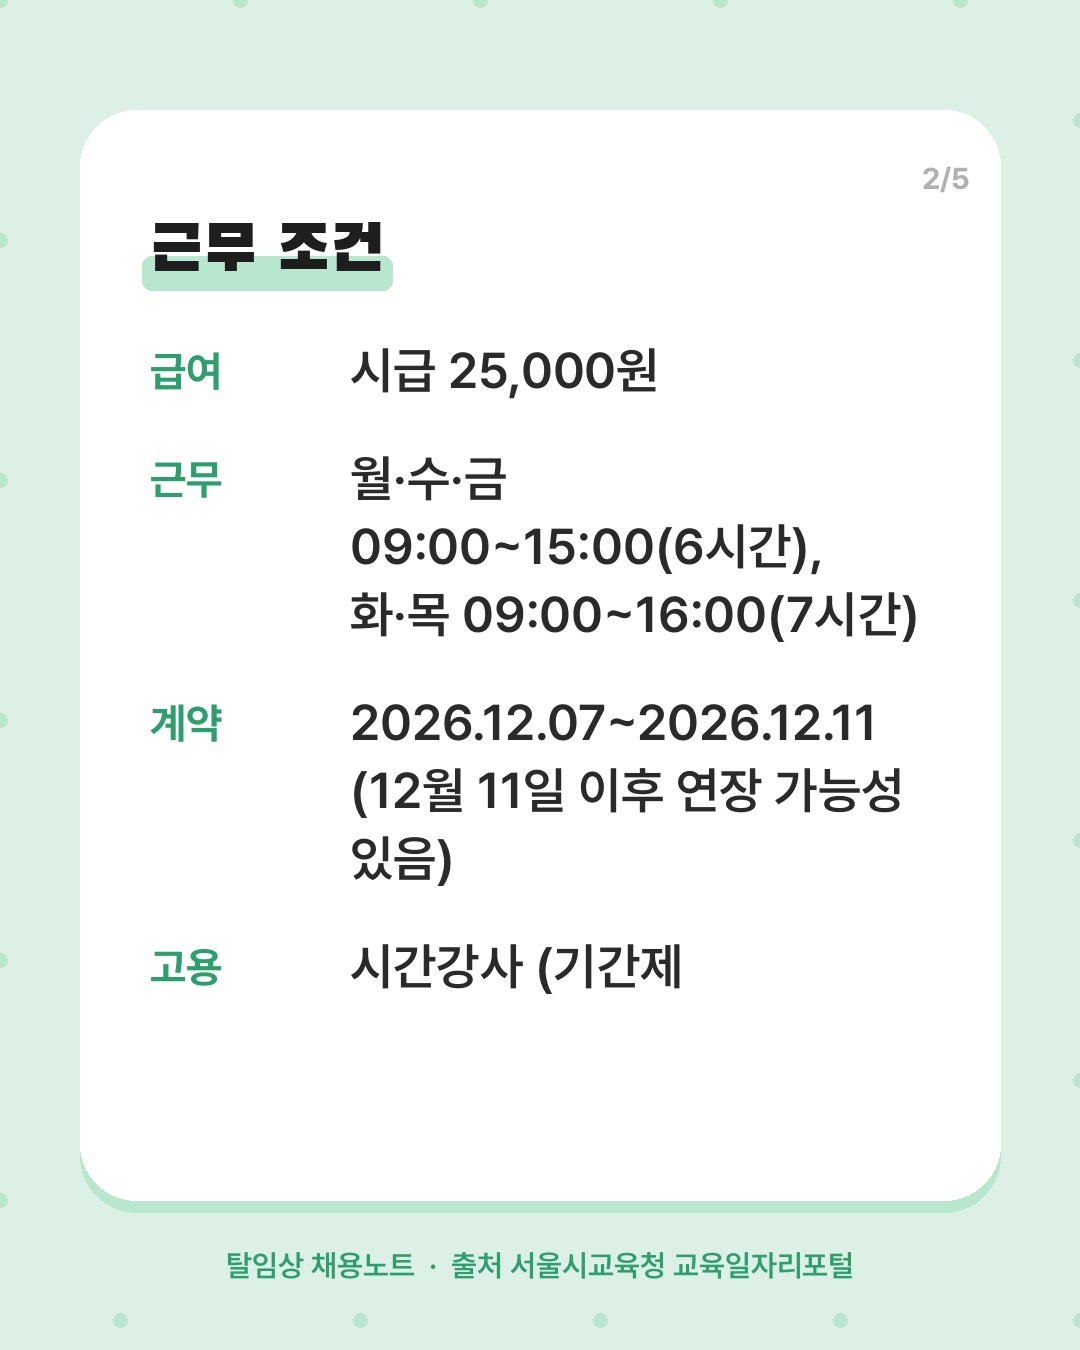
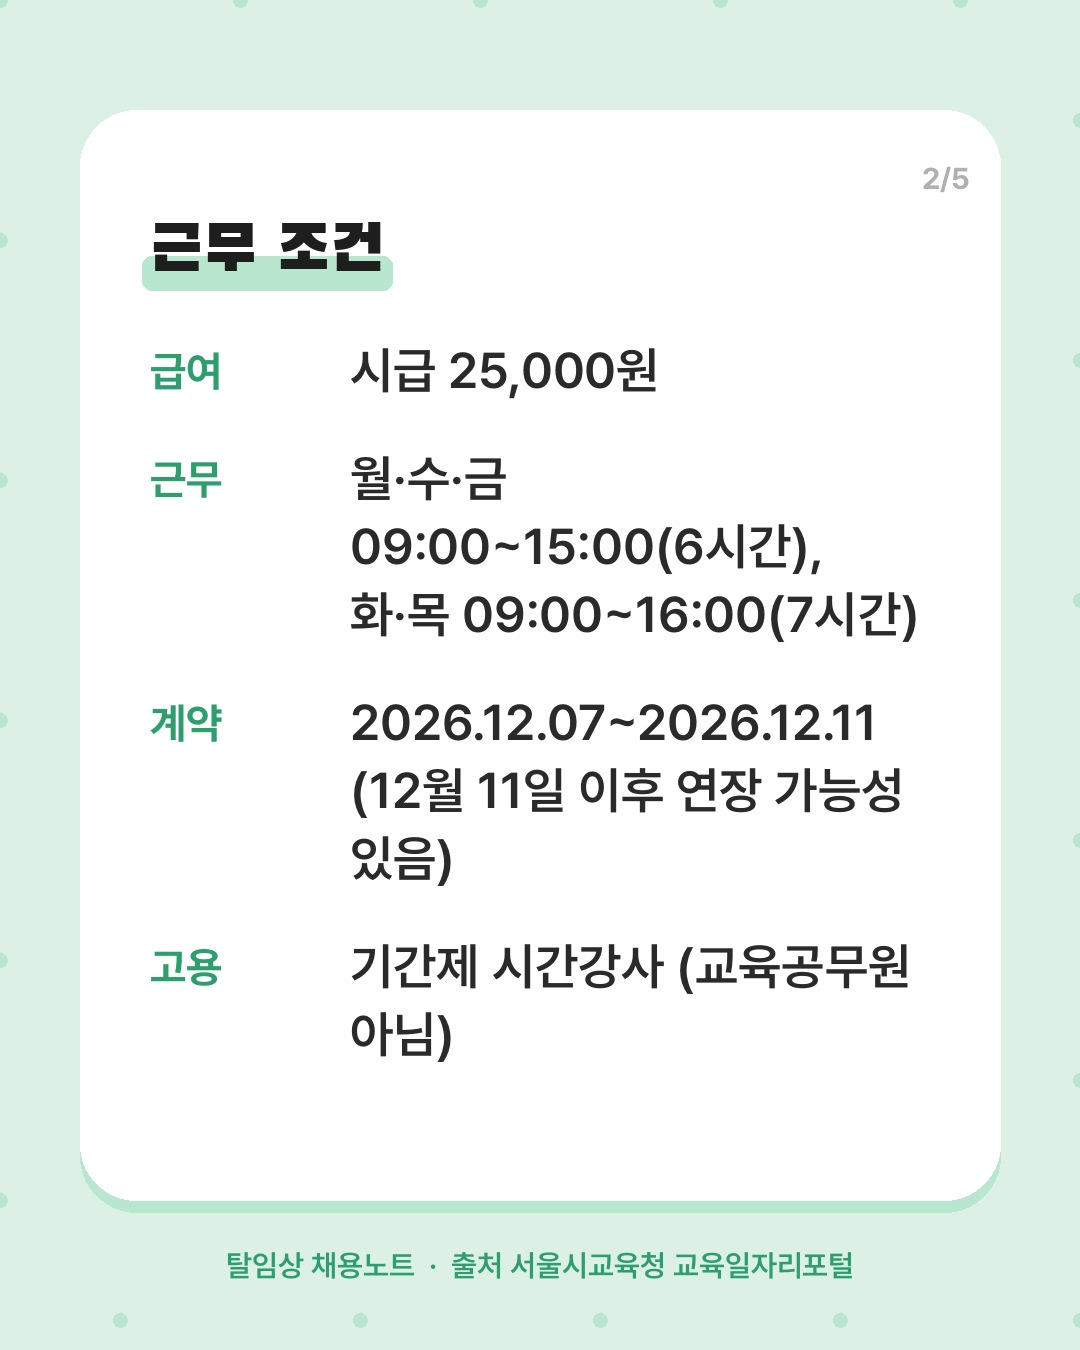
분류·콘텐츠 생성·검토 2026-11-28
Claude-Session: https://claude.ai/code/session_015ozFBxLbVMSuceEiQ992Vw

Changed region(s): [[0.3056, 0.6844, 0.8556, 0.8089]]

diff --git a/docs/2026-11-28/index.html b/docs/2026-11-28/index.html
@@ -31,7 +31,7 @@ a{color:var(--accent)}ul.days{padding-left:1.2em}
 <tr><td style="width:30%;background:#f5f5f5"><b>기관</b></td><td>석촌중학교</td></tr>
 <tr><td style="width:30%;background:#f5f5f5"><b>부서 · 직무</b></td><td>보건 시간강사</td></tr>
 <tr><td style="width:30%;background:#f5f5f5"><b>채용 인원</b></td><td>1명</td></tr>
-<tr><td style="width:30%;background:#f5f5f5"><b>고용 형태</b></td><td>시간강사 (기간제, 교육공무원 아님)</td></tr>
+<tr><td style="width:30%;background:#f5f5f5"><b>고용 형태</b></td><td>기간제 시간강사 (교육공무원 아님)</td></tr>
 <tr><td style="width:30%;background:#f5f5f5"><b>계약 기간</b></td><td>2026.12.07~2026.12.11 (12월 11일 이후 연장 가능성 있음)</td></tr>
 <tr><td style="width:30%;background:#f5f5f5"><b>근무지</b></td><td>서울특별시 송파구 송이로15길 13 (가락동)</td></tr>
 <tr><td style="width:30%;background:#f5f5f5"><b>급여</b></td><td>시급 25,000원</td></tr>
@@ -54,16 +54,16 @@ a{color:var(--accent)}ul.days{padding-left:1.2em}
 <div class="row" style="margin-top:10px"><pre id="tg1" style="flex:1;margin:0">#석촌중학교채용 #간호사채용 #탈임상 #탈임상간호사 #석촌중학교 #보건교사 #보건시간강사 #서울보건교사 #송파구 #간호사이직</pre>
 <button onclick="copyText('tg1',this)">태그 복사</button></div>
 <div class="row" style="margin-top:10px;align-items:flex-start"><a href="thumb-01.png" download><img src="thumb-01.png" alt="썸네일 1" style="width:160px;border-radius:8px;border:1px solid var(--line)"></a>
-<span class="muted">썸네일: 이미지를 눌러 저장 후 글 맨 위에 넣으세요</span></div></div><div class="box"><div class="row"><b>글 2. 서울특별시금천구보건소 · 간호사</b>
+<span class="muted">썸네일: 이미지를 눌러 저장 후 글 맨 위에 넣으세요</span></div></div><div class="box"><div class="row"><b>글 2. 금천구보건소 · 간호사</b>
 <span class="muted">카테고리: <span id="ct2">탈임상 채용공고 &gt; 공공기관·공무원</span></span></div>
-<pre id="pl2" style="display:none">서울특별시금천구보건소 | 방문간호사: 가산동·시흥5동 주민센터 예정 / AI간호사: 금천구보건소 5층 건강증진과</pre>
-<div class="row" style="margin-top:8px"><pre id="pt2" style="flex:1;margin:0">[서울] 서울특별시금천구보건소 간호사 기간제 채용 (~12/2)</pre>
+<pre id="pl2" style="display:none">금천구보건소 | 방문간호사: 가산동·시흥5동 주민센터 예정 / AI간호사: 금천구보건소 5층 건강증진과</pre>
+<div class="row" style="margin-top:8px"><pre id="pt2" style="flex:1;margin:0">[서울] 금천구보건소 간호사 기간제 채용 (~12/2)</pre>
 <button onclick="copyText('pt2',this)">제목 복사</button></div>
 <details open><summary class="muted" style="margin:10px 0;cursor:pointer">본문 미리보기 (접기)</summary>
 <div id="pb2" class="post"><p>서울 보건소에서 1년 동안 평일 낮에만 일할 수 있는 기간제 간호사 자리입니다. 방문간호사 2명과 AI전담간호사 1명을 뽑고 월 279만 원이 공개돼 있습니다. 마감이 12월 2일로 가깝습니다.</p><p>&nbsp;</p>
 <h2>📌 채용 개요</h2>
 <table border="1" cellpadding="8" style="border-collapse:collapse;width:100%">
-<tr><td style="width:30%;background:#f5f5f5"><b>기관</b></td><td>서울특별시금천구보건소</td></tr>
+<tr><td style="width:30%;background:#f5f5f5"><b>기관</b></td><td>금천구보건소</td></tr>
 <tr><td style="width:30%;background:#f5f5f5"><b>부서 · 직무</b></td><td>간호사</td></tr>
 <tr><td style="width:30%;background:#f5f5f5"><b>채용 인원</b></td><td>3명 (방문간호사 2명, AI전담간호사 1명)</td></tr>
 <tr><td style="width:30%;background:#f5f5f5"><b>고용 형태</b></td><td>기간제 (2027.1.1~12.31)</td></tr>
@@ -85,10 +85,10 @@ a{color:var(--accent)}ul.days{padding-left:1.2em}
 <li><a href="https://www.nursejob.co.kr/recruit/recruit_view.php?r_idx=1237562">공고 원문 보기 (널스잡)</a></li>
 </ul><p>※ 공고 내용을 요약한 글입니다. 지원 전 원문 공고문을 꼭 확인하세요.</p><p>&nbsp;</p>
 
-<p>#서울특별시금천구보건소채용 #간호사채용 #탈임상 #탈임상간호사 #금천구보건소 #방문간호사 #보건소간호사 #서울간호사 #기간제 #간호사이직</p></div></details>
+<p>#금천구보건소채용 #간호사채용 #탈임상 #탈임상간호사 #금천구보건소 #방문간호사 #보건소간호사 #서울간호사 #기간제 #간호사이직</p></div></details>
 <div class="row"><span class="muted">네이버 글쓰기에 제목 → 본문 순서로 붙여넣으세요</span>
 <button onclick="copyHtml('pb2',this)">본문 복사</button></div>
-<div class="row" style="margin-top:10px"><pre id="tg2" style="flex:1;margin:0">#서울특별시금천구보건소채용 #간호사채용 #탈임상 #탈임상간호사 #금천구보건소 #방문간호사 #보건소간호사 #서울간호사 #기간제 #간호사이직</pre>
+<div class="row" style="margin-top:10px"><pre id="tg2" style="flex:1;margin:0">#금천구보건소채용 #간호사채용 #탈임상 #탈임상간호사 #금천구보건소 #방문간호사 #보건소간호사 #서울간호사 #기간제 #간호사이직</pre>
 <button onclick="copyText('tg2',this)">태그 복사</button></div>
 <div class="row" style="margin-top:10px;align-items:flex-start"><a href="thumb-02.png" download><img src="thumb-02.png" alt="썸네일 2" style="width:160px;border-radius:8px;border:1px solid var(--line)"></a>
 <span class="muted">썸네일: 이미지를 눌러 저장 후 글 맨 위에 넣으세요</span></div></div><div class="box"><div class="row"><b>글 3. 베스티안서울병원 · CRC</b>
@@ -219,7 +219,7 @@ a{color:var(--accent)}ul.days{padding-left:1.2em}
 <tr><td style="width:30%;background:#f5f5f5"><b>근무 시간</b></td><td>주5일 08:30~17:30</td></tr>
 <tr><td style="width:30%;background:#f5f5f5"><b>접수 기간</b></td><td>11월 26일 ~ 12월 6일 24:00 (D-8)</td></tr>
 </table><p>&nbsp;</p>
-<h2>💰 급여</h2><ul><li>원문에 급여 기재 없음 — 공고문 확인 필요</li></ul><p>&nbsp;</p>
+<h2>💰 급여</h2><ul><li>원문에 급여 기재 없음 (병원 채용 홈페이지 공고문 참고)</li></ul><p>&nbsp;</p>
 <h2>🎁 복리후생</h2><ul><li>4대보험</li><li>본인 의료비 지원</li><li>자녀 학자금 지원</li><li>경조사 지원</li><li>구내식당(사원식당)</li><li>사내 동호회 운영</li></ul><p>&nbsp;</p>
 <h2>✅ 지원 자격</h2><ul><li>학력: 대졸 이상(2,3년)</li><li>전공: 간호학</li><li>임상시험 코디네이터 교육을 수료한 간호사 (신규자 최소 20~40시간, 경력자 매년 보수교육 8시간 수료자)</li></ul><p>&nbsp;</p>
 <h2>⭐ 우대 사항</h2><ul><li>종합병원 이상 임상시험센터 근무 유경험자</li></ul><p>&nbsp;</p>
@@ -239,7 +239,7 @@ a{color:var(--accent)}ul.days{padding-left:1.2em}
 <span class="muted">썸네일: 이미지를 눌러 저장 후 글 맨 위에 넣으세요</span></div></div><div class="box"><div class="row"><b>글 7. 서울대학교병원 · CRC</b>
 <span class="muted">카테고리: <span id="ct7">탈임상 채용공고 &gt; 임상연구</span></span></div>
 <pre id="pl7" style="display:none">서울대학교병원 | 서울대학교병원 의학연구혁신센터</pre>
-<div class="row" style="margin-top:8px"><pre id="pt7" style="flex:1;margin:0">[서울] 서울대학교병원 CRC(간호사 지원 가능) 채용 (상시)</pre>
+<div class="row" style="margin-top:8px"><pre id="pt7" style="flex:1;margin:0">[서울] 서울대학교병원 CRC(간호사 지원 가능) 계약직 채용 (상시)</pre>
 <button onclick="copyText('pt7',this)">제목 복사</button></div>
 <details open><summary class="muted" style="margin:10px 0;cursor:pointer">본문 미리보기 (접기)</summary>
 <div id="pb7" class="post"><p>임상 1년 차 이상이면 신규로도 지원할 수 있는 서울대병원 신경과 연구실 CRC 자리입니다. 다국적 Phase III와 연구자주도 연구를 함께 맡고, 채혈과 연구비 행정은 하지 않습니다. 급여가 공개돼 있지만 4대보험 미적용이라는 점은 미리 확인이 필요합니다.</p><p>&nbsp;</p>
@@ -248,7 +248,7 @@ a{color:var(--accent)}ul.days{padding-left:1.2em}
 <tr><td style="width:30%;background:#f5f5f5"><b>기관</b></td><td>서울대학교병원</td></tr>
 <tr><td style="width:30%;background:#f5f5f5"><b>부서 · 직무</b></td><td>CRC</td></tr>
 <tr><td style="width:30%;background:#f5f5f5"><b>채용 인원</b></td><td>1명</td></tr>
-<tr><td style="width:30%;background:#f5f5f5"><b>고용 형태</b></td><td>연구비 고용 (4대보험 미적용)</td></tr>
+<tr><td style="width:30%;background:#f5f5f5"><b>고용 형태</b></td><td>계약직 (연구비 고용, 4대보험 미적용)</td></tr>
 <tr><td style="width:30%;background:#f5f5f5"><b>근무지</b></td><td>서울대학교병원 의학연구혁신센터</td></tr>
 <tr><td style="width:30%;background:#f5f5f5"><b>급여</b></td><td>월 270만원 (수습 후, 세전)</td></tr>
 <tr><td style="width:30%;background:#f5f5f5"><b>근무 시간</b></td><td>주5일(월~금) 09:00~17:00</td></tr>
@@ -340,7 +340,7 @@ a{color:var(--accent)}ul.days{padding-left:1.2em}
 <tr><td style="text-align:center;white-space:nowrap">11/30<br><b><span style="color:#e03131">D-2</span></b></td><td><a href="https://www.korea.kr/archive/recruitInfoView.do?dataId=400207">함양군</a></td><td>통합건강증진사업 간호사</td><td>경남 함양군</td><td style="text-align:center;white-space:nowrap"><span style="color:#868e96">비정규</span></td><td style="text-align:center;white-space:nowrap"><a href="https://blog.naver.com/PostSearchList.naver?blogId=live_in_fact&amp;orderType=sim&amp;searchText=%ED%95%A8%EC%96%91%EA%B5%B0">📝</a></td></tr>
 <tr><td style="text-align:center;white-space:nowrap">11/30<br><b><span style="color:#e03131">D-2</span></b></td><td><a href="https://nhimc.recruiter.co.kr/career/jobs/130667">국민건강보험공단 일산병원</a></td><td>일차의료개발센터 간호사</td><td>경기 고양</td><td style="text-align:center;white-space:nowrap"><span style="color:#868e96">비정규</span></td><td style="text-align:center;white-space:nowrap"><a href="https://blog.naver.com/PostSearchList.naver?blogId=live_in_fact&amp;orderType=sim&amp;searchText=%EA%B5%AD%EB%AF%BC%EA%B1%B4%EA%B0%95%EB%B3%B4%ED%97%98%EA%B3%B5%EB%8B%A8%20%EC%9D%BC%EC%82%B0%EB%B3%91%EC%9B%90">📝</a></td></tr>
 <tr><td style="text-align:center;white-space:nowrap">12/1<br><b><span style="color:#e03131">D-3</span></b></td><td><a href="https://nhimc.recruiter.co.kr">국민건강보험공단 일산병원</a></td><td>일차의료거점지원센터 간호사</td><td>경기</td><td style="text-align:center;white-space:nowrap"><span style="color:#868e96">비정규</span></td><td style="text-align:center;white-space:nowrap"><a href="https://blog.naver.com/PostSearchList.naver?blogId=live_in_fact&amp;orderType=sim&amp;searchText=%EA%B5%AD%EB%AF%BC%EA%B1%B4%EA%B0%95%EB%B3%B4%ED%97%98%EA%B3%B5%EB%8B%A8%20%EC%9D%BC%EC%82%B0%EB%B3%91%EC%9B%90">📝</a></td></tr>
-<tr><td style="text-align:center;white-space:nowrap">12/2<br>D-4</td><td>🆕 <a href="https://www.nursejob.co.kr/recruit/recruit_view.php?r_idx=1237562">서울특별시금천구보건소</a></td><td>간호사</td><td>서울 금천구</td><td style="text-align:center;white-space:nowrap"><span style="color:#868e96">비정규</span></td><td style="text-align:center;white-space:nowrap"><a href="https://blog.naver.com/PostSearchList.naver?blogId=live_in_fact&amp;orderType=sim&amp;searchText=%EC%84%9C%EC%9A%B8%ED%8A%B9%EB%B3%84%EC%8B%9C%EA%B8%88%EC%B2%9C%EA%B5%AC%EB%B3%B4%EA%B1%B4%EC%86%8C">📝</a></td></tr>
+<tr><td style="text-align:center;white-space:nowrap">12/2<br>D-4</td><td>🆕 <a href="https://www.nursejob.co.kr/recruit/recruit_view.php?r_idx=1237562">금천구보건소</a></td><td>간호사</td><td>서울 금천구</td><td style="text-align:center;white-space:nowrap"><span style="color:#868e96">비정규</span></td><td style="text-align:center;white-space:nowrap"><a href="https://blog.naver.com/PostSearchList.naver?blogId=live_in_fact&amp;orderType=sim&amp;searchText=%EA%B8%88%EC%B2%9C%EA%B5%AC%EB%B3%B4%EA%B1%B4%EC%86%8C">📝</a></td></tr>
 <tr><td style="text-align:center;white-space:nowrap">12/2<br>D-4</td><td>🆕 <a href="https://www.jungnang.go.kr/portal/bbs/view/B0000118/168675.do?searchCnd=&amp;searchWrd=&amp;gubun=&amp;delCode=0&amp;useAt=&amp;replyAt=&amp;menuNo=200476&amp;sdate=&amp;edate=&amp;deptId=&amp;deptName=&amp;popupYn=&amp;dept=&amp;dong=&amp;option1=&amp;viewType=&amp;searchCnd2=&amp;pageIndex=1">서울특별시중랑구보건소</a></td><td>예방접종 간호사</td><td>서울 중랑구</td><td style="text-align:center;white-space:nowrap"><span style="color:#868e96">비정규</span></td><td style="text-align:center;white-space:nowrap">-</td></tr>
 <tr><td style="text-align:center;white-space:nowrap">12/2<br>D-4</td><td>🆕 <a href="https://www.nursejob.co.kr/recruit/recruit_view.php?r_idx=1237419">중랑구보건소</a></td><td>모자건강센터 예방접종 간호사</td><td>서울 중랑구</td><td style="text-align:center;white-space:nowrap"><span style="color:#868e96">비정규</span></td><td style="text-align:center;white-space:nowrap"><a href="https://blog.naver.com/PostSearchList.naver?blogId=live_in_fact&amp;orderType=sim&amp;searchText=%EC%A4%91%EB%9E%91%EA%B5%AC%EB%B3%B4%EA%B1%B4%EC%86%8C">📝</a></td></tr>
 <tr><td style="text-align:center;white-space:nowrap">12/2<br>D-4</td><td>🆕 <a href="https://www.nursevillage.com/job/job-posting/99755">미사보건센터</a></td><td>모자보건 간호사</td><td>경기 하남시</td><td style="text-align:center;white-space:nowrap"><span style="color:#868e96">비정규</span></td><td style="text-align:center;white-space:nowrap">-</td></tr>
@@ -383,7 +383,7 @@ a{color:var(--accent)}ul.days{padding-left:1.2em}
 <tr><td style="text-align:center;white-space:nowrap">12/22<br>D-24</td><td><a href="http://www.saramin.co.kr/zf_user/recruit/recruit-view?idx=55639350">디알리서치</a></td><td>CRA</td><td>서울 송파구</td><td style="text-align:center;white-space:nowrap"><b><span style="color:#1971c2">정규</span></b></td><td style="text-align:center;white-space:nowrap"><a href="https://blog.naver.com/PostSearchList.naver?blogId=live_in_fact&amp;orderType=sim&amp;searchText=%EB%94%94%EC%95%8C%EB%A6%AC%EC%84%9C%EC%B9%98">📝</a></td></tr>
 <tr><td style="text-align:center;white-space:nowrap">12/23<br>D-25</td><td><a href="https://job.incruit.com/jobdb_info/jobpost.asp?job=2611230000970">피플워크</a></td><td>임상운영</td><td>인천 연수구</td><td style="text-align:center;white-space:nowrap"><b><span style="color:#1971c2">정규</span></b></td><td style="text-align:center;white-space:nowrap"><a href="https://blog.naver.com/PostSearchList.naver?blogId=live_in_fact&amp;orderType=sim&amp;searchText=%ED%94%BC%ED%94%8C%EC%9B%8C%ED%81%AC">📝</a></td></tr>
 <tr><td style="text-align:center;white-space:nowrap">1/12<br>D-45</td><td><a href="http://www.saramin.co.kr/zf_user/recruit/recruit-view?idx=55565916">메디코아</a></td><td>의료기기 임상연구</td><td>경기 하남시</td><td style="text-align:center;white-space:nowrap">-</td><td style="text-align:center;white-space:nowrap">-</td></tr>
-<tr><td style="text-align:center;white-space:nowrap">상시</td><td>🆕 <a href="https://cafe.naver.com/ca-fe/cafes/15621235/articles/377885?menuid=19">서울대학교병원</a></td><td>CRC</td><td>서울 종로구</td><td style="text-align:center;white-space:nowrap">-</td><td style="text-align:center;white-space:nowrap"><a href="https://blog.naver.com/PostSearchList.naver?blogId=live_in_fact&amp;orderType=sim&amp;searchText=%EC%84%9C%EC%9A%B8%EB%8C%80%ED%95%99%EA%B5%90%EB%B3%91%EC%9B%90">📝</a></td></tr>
+<tr><td style="text-align:center;white-space:nowrap">상시</td><td>🆕 <a href="https://cafe.naver.com/ca-fe/cafes/15621235/articles/377885?menuid=19">서울대학교병원</a></td><td>CRC</td><td>서울 종로구</td><td style="text-align:center;white-space:nowrap"><span style="color:#868e96">비정규</span></td><td style="text-align:center;white-space:nowrap"><a href="https://blog.naver.com/PostSearchList.naver?blogId=live_in_fact&amp;orderType=sim&amp;searchText=%EC%84%9C%EC%9A%B8%EB%8C%80%ED%95%99%EA%B5%90%EB%B3%91%EC%9B%90">📝</a></td></tr>
 <tr><td style="text-align:center;white-space:nowrap">상시</td><td>🆕 <a href="https://cafe.naver.com/ca-fe/cafes/15621235/articles/377841?menuid=19">신촌세브란스병원</a></td><td>데이터입력 CRC</td><td>서울 서대문구</td><td style="text-align:center;white-space:nowrap"><b><span style="color:#1971c2">정규</span></b></td><td style="text-align:center;white-space:nowrap">-</td></tr>
 <tr><td style="text-align:center;white-space:nowrap">상시</td><td>🆕 <a href="https://job.incruit.com/jobdb_info/jobpost.asp?job=2611250003645">차병원·바이오그룹</a></td><td>CRC</td><td>경기 성남시 분당구</td><td style="text-align:center;white-space:nowrap"><span style="color:#868e96">비정규</span></td><td style="text-align:center;white-space:nowrap">-</td></tr>
 <tr><td style="text-align:center;white-space:nowrap">상시</td><td>🆕 <a href="https://cafe.naver.com/ca-fe/cafes/15621235/articles/377769?menuid=19">서울아산병원</a></td><td>종양내과 대장암팀 연구간호사</td><td>서울 송파구</td><td style="text-align:center;white-space:nowrap">-</td><td style="text-align:center;white-space:nowrap"><a href="https://blog.naver.com/PostSearchList.naver?blogId=live_in_fact&amp;orderType=sim&amp;searchText=%EC%84%9C%EC%9A%B8%EC%95%84%EC%82%B0%EB%B3%91%EC%9B%90">📝</a></td></tr>
@@ -451,8 +451,8 @@ a{color:var(--accent)}ul.days{padding-left:1.2em}
 
 #탈임상 #탈임상간호사 #간호사채용 #간호사이직 #간호사취업 #석촌중학교 #보건교사 #보건시간강사 #서울보건교사 #송파구</pre>
 <button onclick="copyText('ic1',this)">캡션 복사</button></div></div><div class="box"><div style="display:flex;flex-wrap:wrap"><a href="ig-02-1.jpg" download><img src="ig-02-1.jpg" alt="인스타 2-1" style="width:150px;border-radius:8px;border:1px solid var(--line);margin:0 6px 6px 0"></a><a href="ig-02-2.jpg" download><img src="ig-02-2.jpg" alt="인스타 2-2" style="width:150px;border-radius:8px;border:1px solid var(--line);margin:0 6px 6px 0"></a><a href="ig-02-3.jpg" download><img src="ig-02-3.jpg" alt="인스타 2-3" style="width:150px;border-radius:8px;border:1px solid var(--line);margin:0 6px 6px 0"></a><a href="ig-02-4.jpg" download><img src="ig-02-4.jpg" alt="인스타 2-4" style="width:150px;border-radius:8px;border:1px solid var(--line);margin:0 6px 6px 0"></a><a href="ig-02-5.jpg" download><img src="ig-02-5.jpg" alt="인스타 2-5" style="width:150px;border-radius:8px;border:1px solid var(--line);margin:0 6px 6px 0"></a></div>
-<div><b>인스타 2. 서울특별시금천구보건소</b> <span class="muted">(5장 · 순서대로 올리세요)</span>
-<pre id="ic2" style="margin:8px 0">📌 [서울] 서울특별시금천구보건소 간호사 기간제 채용
+<div><b>인스타 2. 금천구보건소</b> <span class="muted">(5장 · 순서대로 올리세요)</span>
+<pre id="ic2" style="margin:8px 0">📌 [서울] 금천구보건소 간호사 기간제 채용
 
 📍 근무지: 서울 금천구
 ⏰ 마감: 12/2까지 (D-4)
@@ -530,7 +530,7 @@ a{color:var(--accent)}ul.days{padding-left:1.2em}
 #탈임상 #탈임상간호사 #간호사채용 #간호사이직 #간호사취업 #강남성심병원채용 #임상시험센터 #연구간호사 #CRC #정규직</pre>
 <button onclick="copyText('ic6',this)">캡션 복사</button></div></div><div class="box"><div style="display:flex;flex-wrap:wrap"><a href="ig-07-1.jpg" download><img src="ig-07-1.jpg" alt="인스타 7-1" style="width:150px;border-radius:8px;border:1px solid var(--line);margin:0 6px 6px 0"></a><a href="ig-07-2.jpg" download><img src="ig-07-2.jpg" alt="인스타 7-2" style="width:150px;border-radius:8px;border:1px solid var(--line);margin:0 6px 6px 0"></a><a href="ig-07-3.jpg" download><img src="ig-07-3.jpg" alt="인스타 7-3" style="width:150px;border-radius:8px;border:1px solid var(--line);margin:0 6px 6px 0"></a><a href="ig-07-4.jpg" download><img src="ig-07-4.jpg" alt="인스타 7-4" style="width:150px;border-radius:8px;border:1px solid var(--line);margin:0 6px 6px 0"></a><a href="ig-07-5.jpg" download><img src="ig-07-5.jpg" alt="인스타 7-5" style="width:150px;border-radius:8px;border:1px solid var(--line);margin:0 6px 6px 0"></a></div>
 <div><b>인스타 7. 서울대학교병원</b> <span class="muted">(5장 · 순서대로 올리세요)</span>
-<pre id="ic7" style="margin:8px 0">📌 [서울] 서울대학교병원 CRC(간호사 지원 가능) 채용
+<pre id="ic7" style="margin:8px 0">📌 [서울] 서울대학교병원 CRC(간호사 지원 가능) 계약직 채용
 
 📍 근무지: 서울 종로구
 ⏰ 마감: 상시까지 (상시채용)
